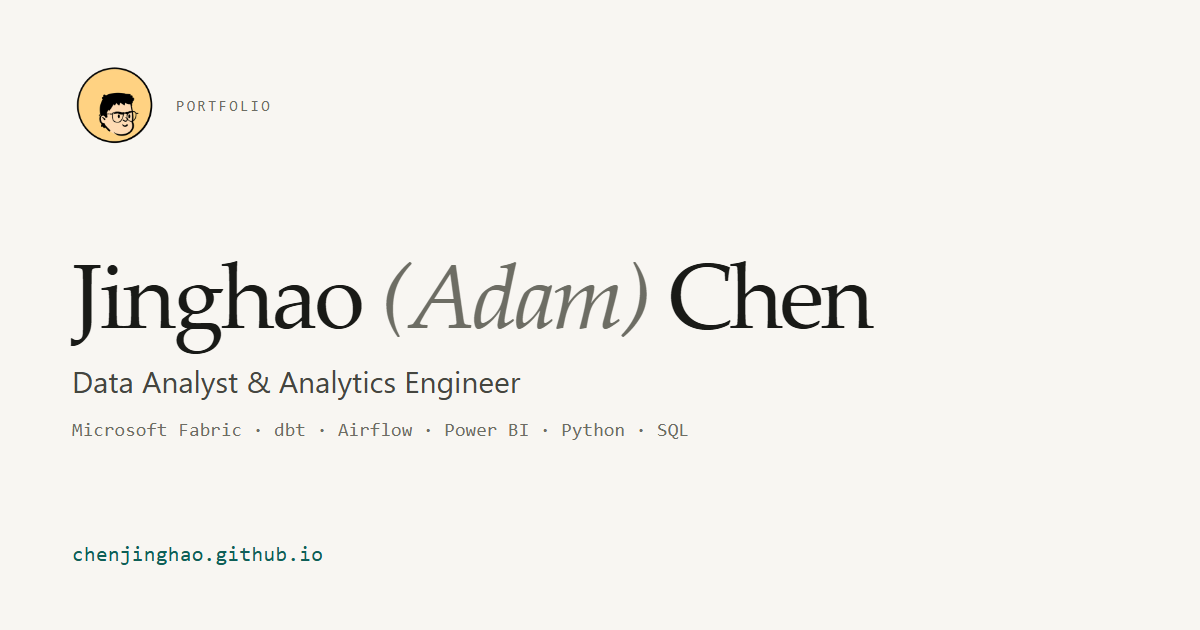
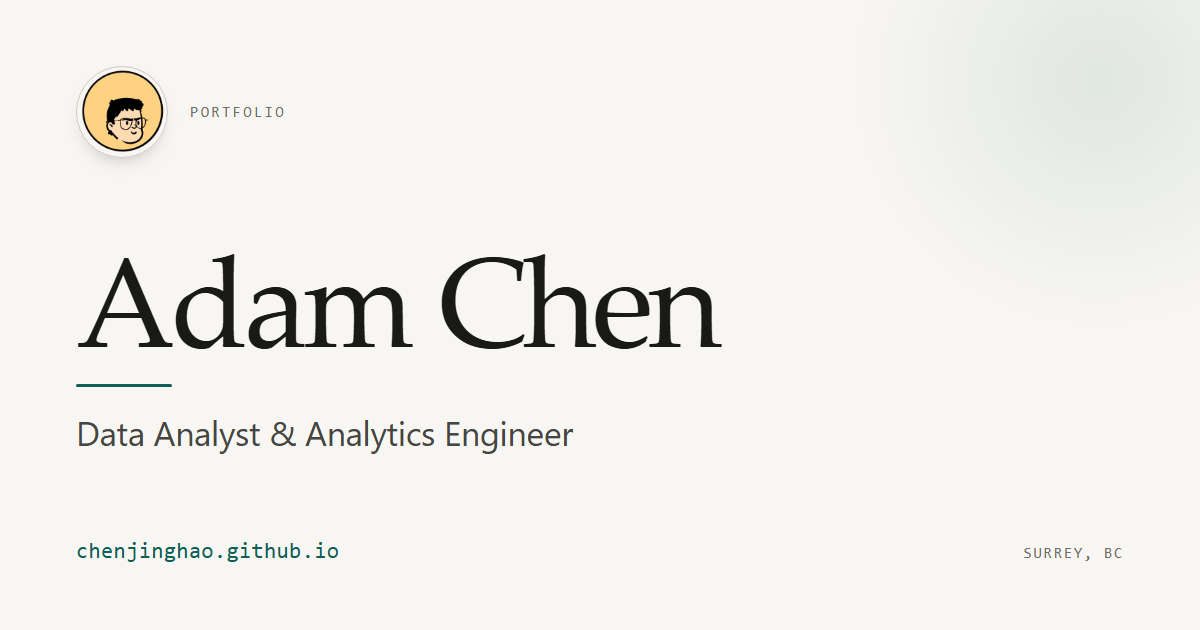
Redesign the share card around the Adam Chen name

diff --git a/assets/og-card.html b/assets/og-card.html
@@ -3,24 +3,39 @@
 <head>
 <meta charset="utf-8">
 <meta name="robots" content="noindex, nofollow">
-<title>Share card source | Jinghao Chen</title>
+<title>Share card source | Adam Chen</title>
 <style>
   @page { size: 1200px 630px; margin: 0; }
   * { box-sizing: border-box; margin: 0; }
   html, body { width: 1200px; height: 630px; }
   body {
-    background: #f8f6f2;
-    color: #191a17;
-    font-family: ui-sans-serif, system-ui, -apple-system, "Segoe UI", Roboto, Arial, sans-serif;
-    padding: 64px 72px;
+    position: relative;
     display: flex;
     flex-direction: column;
     justify-content: space-between;
-    position: relative;
+    padding: 66px 76px;
     overflow: hidden;
+    background: #f8f6f2;
+    color: #191a17;
+    font-family: ui-sans-serif, system-ui, -apple-system, "Segoe UI", Roboto, Arial, sans-serif;
   }
-  .top { display: flex; align-items: center; gap: 20px; }
-  .avatar { width: 84px; height: 84px; border-radius: 50%; object-fit: cover; }
+  /* soft accent glow in the corner, echoing the site's teal */
+  body::after {
+    content: "";
+    position: absolute;
+    right: -160px;
+    top: -180px;
+    width: 520px;
+    height: 520px;
+    border-radius: 50%;
+    background: radial-gradient(circle, rgba(15, 95, 87, 0.10), rgba(15, 95, 87, 0) 68%);
+  }
+  .top { display: flex; align-items: center; gap: 22px; }
+  .avatar {
+    width: 92px; height: 92px; border-radius: 50%;
+    object-fit: cover; border: 1px solid #cfcabf;
+    box-shadow: 0 10px 24px -18px rgba(0, 0, 0, 0.6);
+  }
   .label {
     font-family: ui-monospace, Consolas, monospace;
     font-size: 15px; letter-spacing: 0.16em; text-transform: uppercase;
@@ -28,24 +43,22 @@
   }
   h1 {
     font-family: "Iowan Old Style", "Palatino Linotype", Palatino, Georgia, serif;
-    font-size: 92px; font-weight: 500; letter-spacing: -0.035em; line-height: 0.98;
-    margin: 0;
+    font-size: 128px; font-weight: 500; letter-spacing: -0.04em; line-height: 0.92;
   }
-  h1 .alt { font-style: italic; color: #6d6d64; }
-  .role { font-size: 30px; color: #45463f; margin-top: 22px; }
-  .stack {
-    font-family: ui-monospace, Consolas, monospace;
-    font-size: 19px; color: #6d6d64; margin-top: 18px; letter-spacing: 0.01em;
+  .rule {
+    width: 96px; height: 3px; border-radius: 2px;
+    background: #0f5f57; margin: 26px 0 22px;
   }
-  .bottom { display: flex; align-items: center; justify-content: space-between; }
+  .role { font-size: 34px; color: #45463f; letter-spacing: -0.01em; }
+  .bottom { display: flex; align-items: baseline; justify-content: space-between; }
   .url {
     font-family: ui-monospace, Consolas, monospace;
-    font-size: 21px; color: #0f5f57; letter-spacing: 0.02em;
+    font-size: 22px; letter-spacing: 0.02em; color: #0f5f57;
   }
-  .bar { display: flex; gap: 6px; }
-  .bar span { display: block; width: 26px; height: 6px; border-radius: 3px; background: #0f5f57; }
-  .bar span:nth-child(2) { background: #b4aa92; }
-  .bar span:nth-child(3) { background: #e0d9c9; }
+  .loc {
+    font-family: ui-monospace, Consolas, monospace;
+    font-size: 15px; letter-spacing: 0.12em; text-transform: uppercase; color: #6d6d64;
+  }
 </style>
 </head>
 <body>
@@ -55,13 +68,14 @@
   </div>
 
   <div>
-    <h1>Jinghao <span class="alt">(Adam)</span> Chen</h1>
+    <h1>Adam Chen</h1>
+    <div class="rule"></div>
     <p class="role">Data Analyst &amp; Analytics Engineer</p>
-    <p class="stack">Microsoft Fabric · dbt · Airflow · Power BI · Python · SQL</p>
   </div>
 
   <div class="bottom">
     <p class="url">chenjinghao.github.io</p>
+    <p class="loc">Surrey, BC</p>
   </div>
 </body>
 </html>

diff --git a/index.html b/index.html
@@ -11,24 +11,24 @@
   <link rel="canonical" href="https://chenjinghao.github.io/">
 
   <meta property="og:type" content="profile">
-  <meta property="og:site_name" content="Jinghao (Adam) Chen">
+  <meta property="og:site_name" content="Adam Chen">
   <meta property="og:locale" content="en_CA">
   <meta property="og:url" content="https://chenjinghao.github.io/">
-  <meta property="og:title" content="Jinghao (Adam) Chen | Data Analyst &amp; Analytics Engineer">
+  <meta property="og:title" content="Adam Chen | Data Analyst &amp; Analytics Engineer">
   <meta property="og:description" content="End-to-end data pipelines on Microsoft Fabric and Google Cloud, from REST APIs to Power BI and Streamlit.">
   <meta property="og:image" content="https://chenjinghao.github.io/assets/og-image.png">
   <meta property="og:image:type" content="image/png">
   <meta property="og:image:width" content="1200">
   <meta property="og:image:height" content="630">
-  <meta property="og:image:alt" content="Jinghao (Adam) Chen, data analyst and analytics engineer">
-  <meta property="profile:first_name" content="Jinghao">
+  <meta property="og:image:alt" content="Adam Chen, data analyst and analytics engineer">
+  <meta property="profile:first_name" content="Adam">
   <meta property="profile:last_name" content="Chen">
 
   <meta name="twitter:card" content="summary_large_image">
-  <meta name="twitter:title" content="Jinghao (Adam) Chen | Data Analyst &amp; Analytics Engineer">
+  <meta name="twitter:title" content="Adam Chen | Data Analyst &amp; Analytics Engineer">
   <meta name="twitter:description" content="End-to-end data pipelines on Microsoft Fabric and Google Cloud, from REST APIs to Power BI and Streamlit.">
   <meta name="twitter:image" content="https://chenjinghao.github.io/assets/og-image.png">
-  <meta name="twitter:image:alt" content="Jinghao (Adam) Chen, data analyst and analytics engineer">
+  <meta name="twitter:image:alt" content="Adam Chen, data analyst and analytics engineer">
   <link rel="icon" href="assets/image.png" type="image/png">
   <meta name="theme-color" content="#f8f6f2" media="(prefers-color-scheme: light)">
   <meta name="theme-color" content="#0f1110" media="(prefers-color-scheme: dark)">
